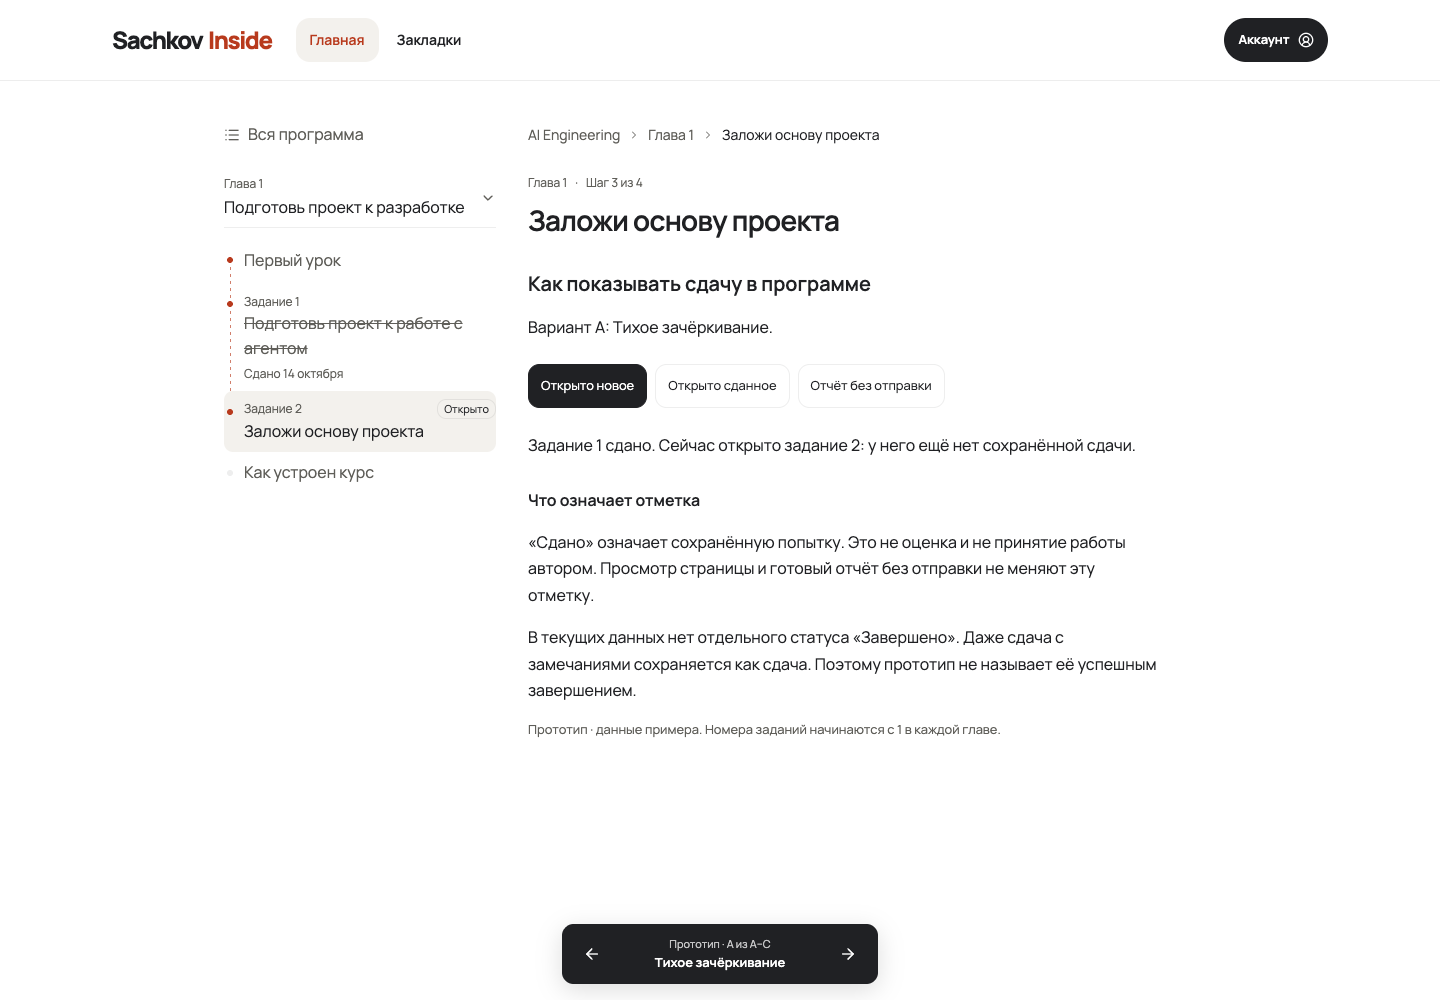
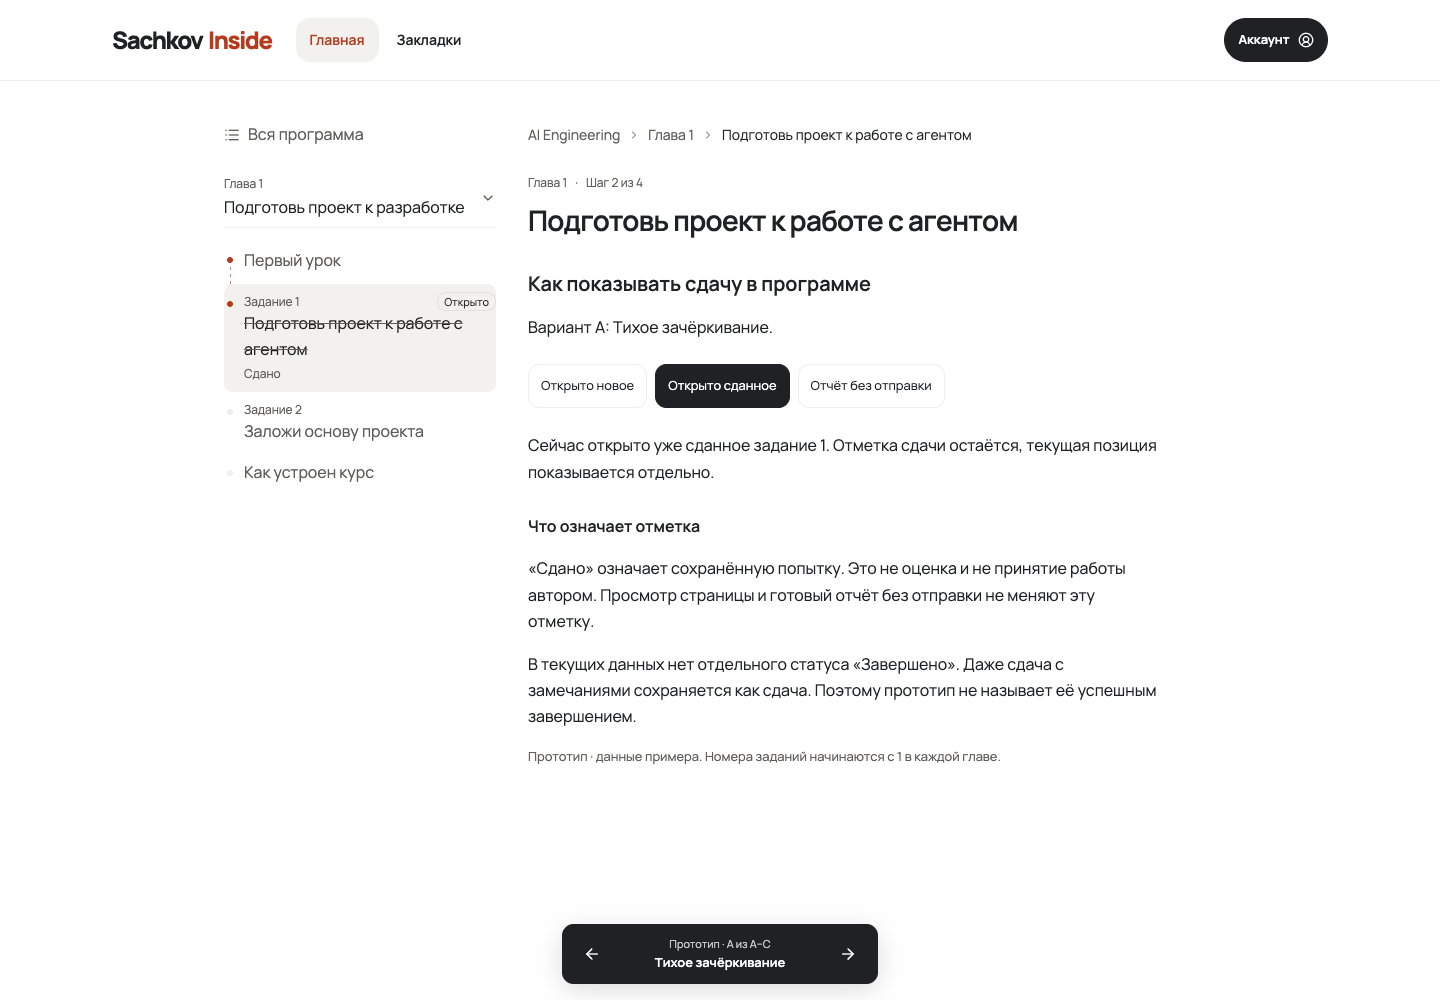
prototype(reader): retain strikethrough without submission date
Owner selected variant A and requested removing its submission date. Keep the readable title, short submitted label and independent current indication. Prototype only.

diff --git a/apps/web/src/features/library-discovery/ui/course-task-completion-prototype.stories.tsx b/apps/web/src/features/library-discovery/ui/course-task-completion-prototype.stories.tsx
@@ -113,9 +113,7 @@ function TaskLabel({
       <span className={styles["title"]}>{step.title}</span>
       {done && (
         <>
-          <span className={styles["status"]}>
-            {variant === 0 ? "Сдано 14 октября" : "Сдано"}
-          </span>
+          <span className={styles["status"]}>Сдано</span>
           {variant === 1 && (
             <CircleCheck
               className={styles["check"]}

diff --git a/docs/evidence/reader-task-completion/README.md b/docs/evidence/reader-task-completion/README.md
@@ -1,6 +1,7 @@
 # Reader Task submission marks — design comparison
 
-Owner assignment: 2026-10-15. Prototype only; no production change or owner selection yet.
+Owner assignment: 2026-10-15. Prototype only; no production change.
+Owner selected direction A, with the submission date removed. Preserve the strikethrough and «Сдано» label.
 Base source: `fa6f153e421d8f48823cba4a3ad24e3e2266f27a`.
 Branch: `prototype/reader-task-completion`.
 
@@ -9,7 +10,7 @@ Branch: `prototype/reader-task-completion`.
 How should the course Reader sidebar show a saved Task submission while retaining a readable title,
 chapter-local Task numbering and an independent current-step indication?
 
-- A: a subtle title strikethrough and submission date.
+- A: a subtle title strikethrough and «Сдано» label without a submission date.
 - B: an outlined check on the left and visible «Сдано» label.
 - C: a checked node on the existing position rail; an accessible «Сдано» label remains available.
 
